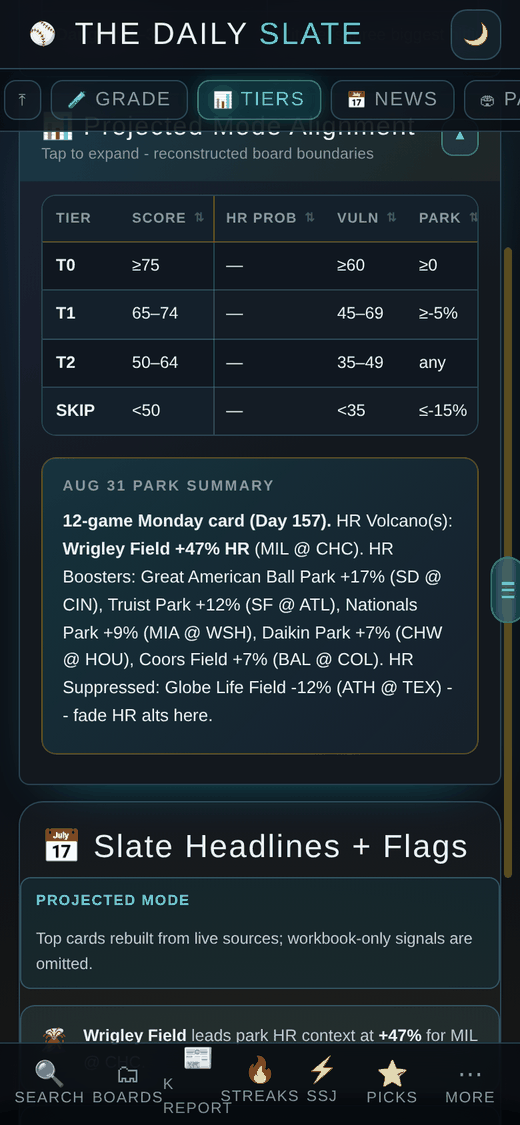
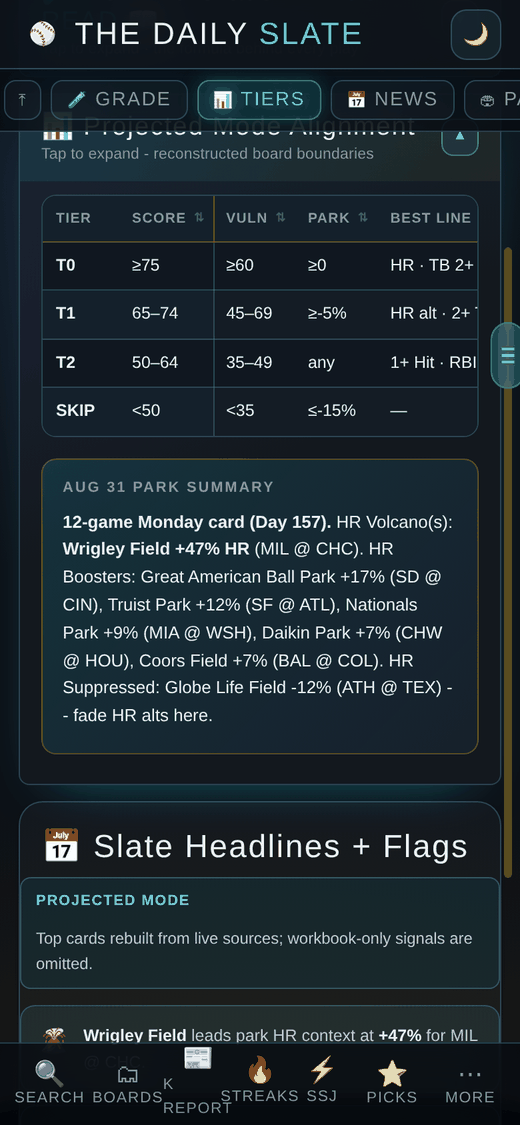
Fix glossary duplicates; drop HR Prob column from alignment table
Review caught that the two glossary rows added in 75597f8 duplicated
pre-existing xwOBA and Barrel% entries a few lines below, with conflicting
thresholds. Deleted the two added rows; the pre-existing entries (xwOBA >= .330
T3 confirmer, Barrel% >= 8% T3 confirmer) and the new HR Prob row stay. Exactly
one of each remains, verified page-wide.

Alignment table drops the HR Prob column entirely -- header plus the four dash
cells -- leaving six columns. The SKIP row holds a second, pre-existing dash
under Best Line, so removal used full-row assert-guarded replacements to take
only the third-column cell. All four rows verified at exactly 6 cells, rendered
at 390px in both themes with no overflow.

alignment-dark.png / alignment-light.png re-shot; session report gains an
addendum superseding the stale (a)/(c) evidence. Zone re-grep unchanged: the
same 9 deferred mentions remain.

Claude-Session: https://claude.ai/code/session_01BvwajDaUGguzf6TEMCPWUu

diff --git a/index.html b/index.html
@@ -1834,8 +1834,6 @@ body.sheet-open #scroll-track{display:none;}
 
       <tr><td colspan="3" style="background:var(--glass); color:var(--text); padding:8px 10px; font-weight:700; font-size:12px; letter-spacing:0.5px; text-transform:uppercase;">Batter Quality Inputs</td></tr>
       <tr><td><strong>HR Prob</strong></td><td>BallparkPal per-game home run probability</td><td>Primary HR Board input. Model output, not a calibrated forward probability.</td></tr>
-      <tr><td><strong>Barrel%</strong></td><td>Baseball Savant barrel rate</td><td>Contact quality. 12%+ is strong, 15%+ elite.</td></tr>
-      <tr><td><strong>xwOBA</strong></td><td>Expected weighted on-base average</td><td>Savant. .350+ strong, .400+ elite.</td></tr>
       <tr><td><strong>ELITE ISO</strong> / ISO .###</td><td>Isolated Power (slugging − batting avg)</td><td>HR floor: ≥ .250 required for T0/T1. Color: <strong style="color:var(--bad)">.280+ red</strong>, <span style="color:var(--hot)">.250–.279 hot</span>, <span style="color:var(--good)">.200–.249 good</span>.</td></tr>
       <tr><td><strong>xwOBA</strong></td><td>Expected weighted on-base average</td><td>Quality-of-contact metric. ≥ .330 = T3 confirmer.</td></tr>
       <tr><td><strong>Barrel%</strong></td><td>Percentage of batted balls hit at "barrel" quality</td><td>Statcast. ≥ 8% = T3 confirmer; ≥12% = elite.</td></tr>
@@ -1919,12 +1917,12 @@ body.sheet-open #scroll-track{display:none;}
   </button>
   <div class="game-body"><div class="game-body-inner">
   <div class="table-wrap"><table class="matrix-table">
-    <thead><tr><th>Tier</th><th>Score</th><th>HR Prob</th><th>Vuln</th><th>Park</th><th>Best Line</th><th>Verdict</th></tr></thead>
+    <thead><tr><th>Tier</th><th>Score</th><th>Vuln</th><th>Park</th><th>Best Line</th><th>Verdict</th></tr></thead>
     <tbody>
-      <tr><td><strong>T0</strong></td><td>≥75</td><td>—</td><td>≥60</td><td>≥0</td><td>HR · TB 2+ · SB combo</td><td class="verdict v-play">ANCHOR — max unit</td></tr>
-      <tr><td><strong>T1</strong></td><td>65–74</td><td>—</td><td>45–69</td><td>≥-5%</td><td>HR alt · 2+ TB</td><td class="verdict v-play">PLAY — standard unit</td></tr>
-      <tr><td><strong>T2</strong></td><td>50–64</td><td>—</td><td>35–49</td><td>any</td><td>1+ Hit · RBI alt</td><td class="verdict v-value">VALUE — half unit</td></tr>
-      <tr><td><strong>SKIP</strong></td><td>&lt;50</td><td>—</td><td>&lt;35</td><td>≤-15%</td><td>—</td><td class="verdict v-skip">PASS — park kills edge</td></tr>
+      <tr><td><strong>T0</strong></td><td>≥75</td><td>≥60</td><td>≥0</td><td>HR · TB 2+ · SB combo</td><td class="verdict v-play">ANCHOR — max unit</td></tr>
+      <tr><td><strong>T1</strong></td><td>65–74</td><td>45–69</td><td>≥-5%</td><td>HR alt · 2+ TB</td><td class="verdict v-play">PLAY — standard unit</td></tr>
+      <tr><td><strong>T2</strong></td><td>50–64</td><td>35–49</td><td>any</td><td>1+ Hit · RBI alt</td><td class="verdict v-value">VALUE — half unit</td></tr>
+      <tr><td><strong>SKIP</strong></td><td>&lt;50</td><td>&lt;35</td><td>≤-15%</td><td>—</td><td class="verdict v-skip">PASS — park kills edge</td></tr>
     </tbody>
   </table></div>
   <div class="tldr-box"><h4>Aug 31 Park Summary</h4><p><strong>12-game Monday card (Day 157).</strong> HR Volcano(s): <strong>Wrigley Field +47% HR</strong> (MIL @ CHC). HR Boosters: Great American Ball Park +17% (SD @ CIN), Truist Park +12% (SF @ ATL), Nationals Park +9% (MIA @ WSH), Daikin Park +7% (CHW @ HOU), Coors Field +7% (BAL @ COL). HR Suppressed: Globe Life Field -12% (ATH @ TEX) -- fade HR alts here.</p></div>

diff --git a/SESSION_STATUS_methodology.md b/SESSION_STATUS_methodology.md
@@ -152,3 +152,38 @@ same ids.
 - HR Prob band values not filled in — no source to fill them from without
   inventing numbers; see the judgment call above.
 - The 9 deferred Zone mentions left exactly as found, for PR 3.
+
+## Addendum — duplicate glossary rows removed; HR Prob column dropped
+
+Review caught a real miss in the first pass: the glossary already carried
+xwOBA and Barrel% rows a few lines below my insert, with different thresholds
+(`xwOBA ≥ .330 = T3 confirmer`; `Barrel% ≥ 8% = T3 confirmer; ≥12% = elite`).
+My two added rows (`12%+ strong / 15%+ elite`, `.350+ strong / .400+ elite`)
+were near-duplicates with conflicting numbers. I should have grepped the whole
+glossary before inserting, not just the block I was editing.
+
+Amendment commit, `index.html` plus the two re-shot alignment screenshots:
+
+- Deleted the two duplicate rows I added. The pre-existing xwOBA and Barrel%
+  rows are untouched; the new HR Prob row stays.
+- Removed the HR Prob column from the alignment table entirely — header and
+  the four dash cells — rather than leaving a column with no honest values.
+  The SKIP row carries a second, pre-existing dash under Best Line, so the
+  removal used full-row replacements to take only the third-column cell.
+
+Confirmations (pasted):
+
+```text
+applied 7: ['#1a delete dup Barrel% row', '#1b delete dup xwOBA row',
+            '#2 thead 7->6', '#2 T0 row', '#2 T1 row', '#2 T2 row', '#2 SKIP row']
+  T0/T1/T2/SKIP cells = 6/6/6/6   thead cells = 6
+  glossary rows: xwOBA=1 Barrel%=1 HR Prob=1
+  page-wide <td><strong> row counts: xwOBA=1 Barrel%=1
+
+rendered, 390px:  head = [Tier, Score, Vuln, Park, Best Line, Verdict]
+                  rows = [6, 6, 6, 6]   overflowX = False   (dark and light)
+```
+
+This supersedes the earlier (a)/(c) evidence where the glossary showed three
+new rows and the alignment table a 7th, dashed column. Zone re-grep is
+unaffected: still the same 9 deferred mentions, none of these edits touch them.
